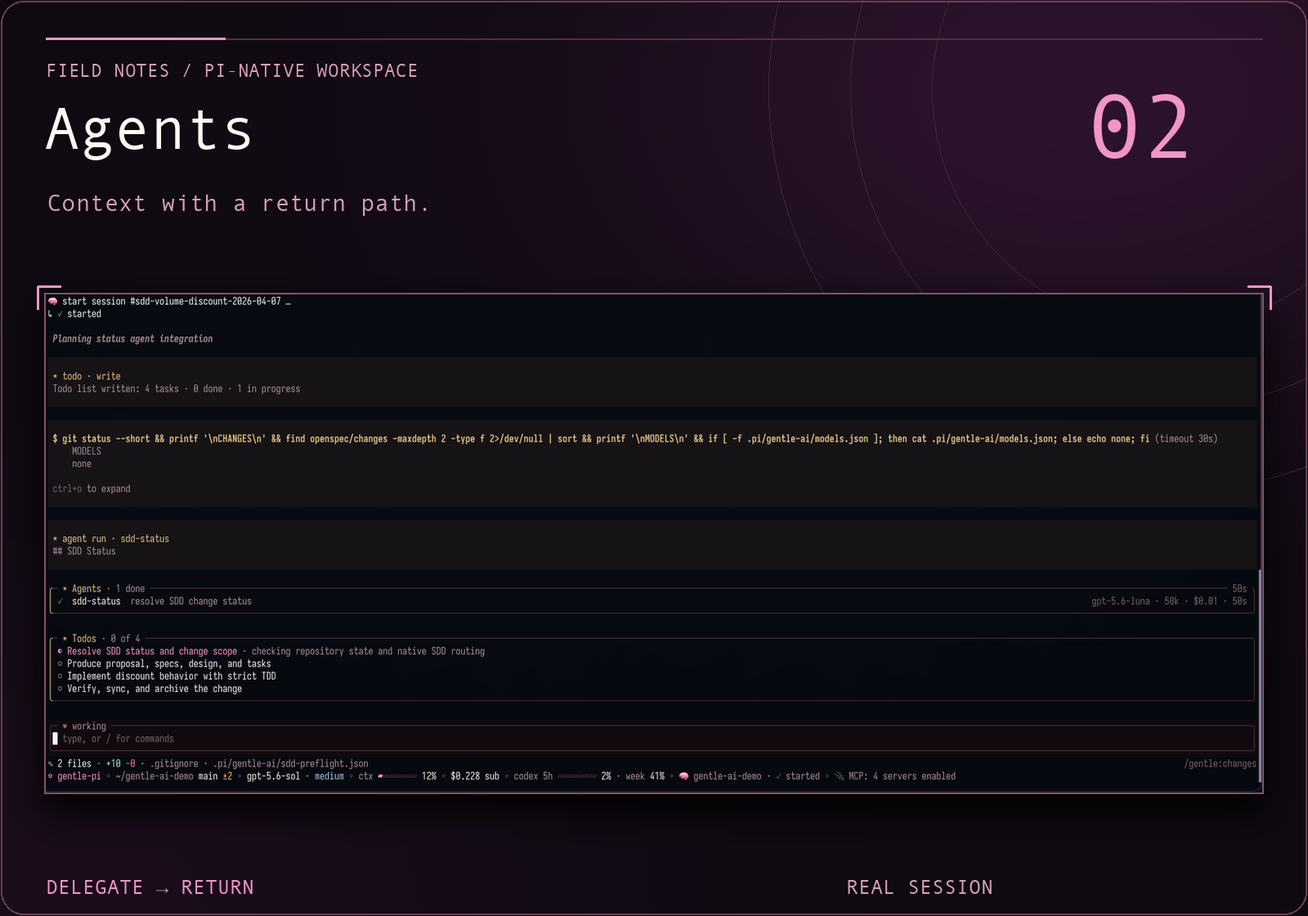
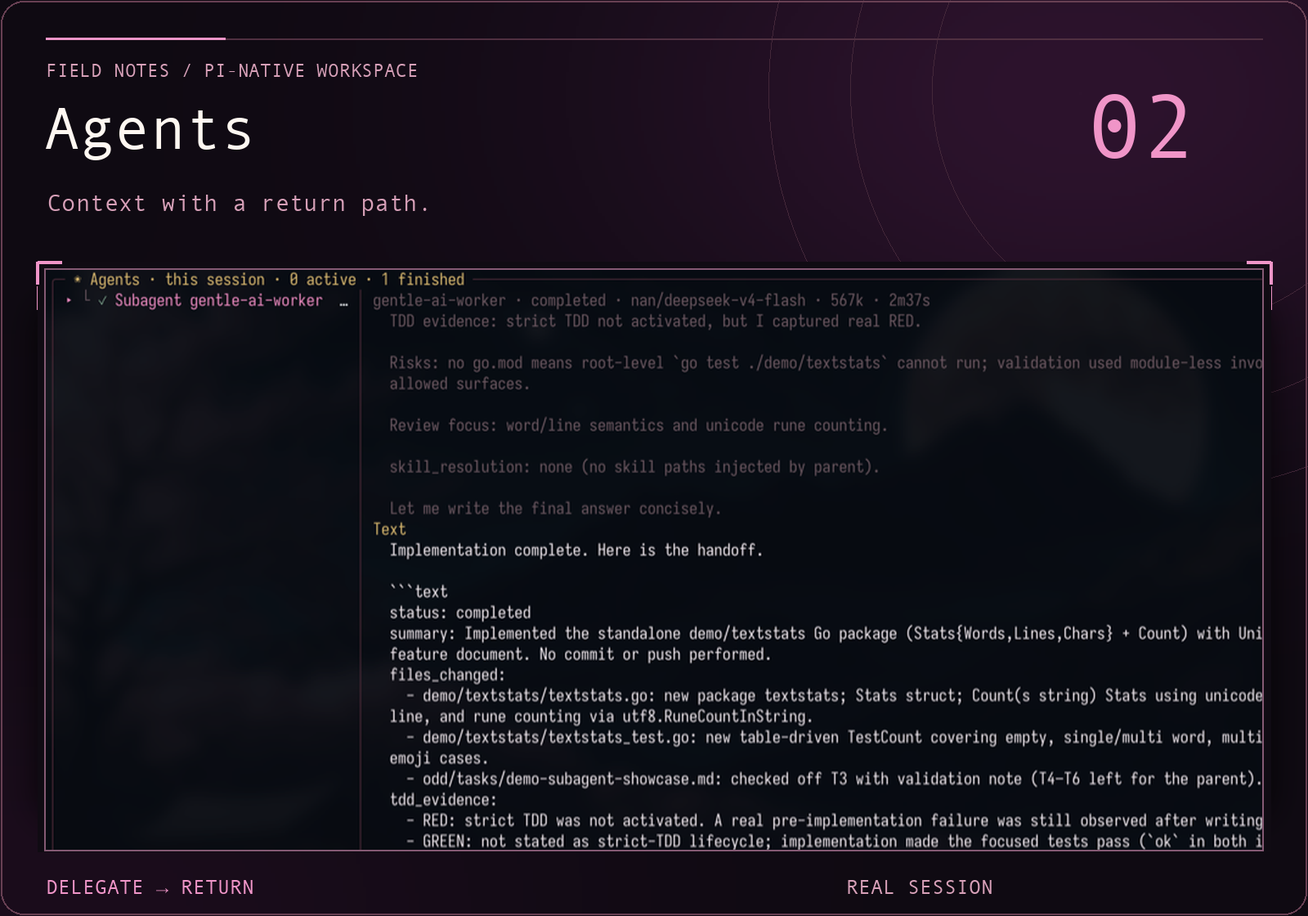
docs(readme): streamline onboarding and improve agents artwork

diff --git a/README.md b/README.md
@@ -45,12 +45,14 @@
 
 > ℹ **Naming transition:** The product and repository are `gentle-shell`; the npm package remains `gentle-pi`, and its launcher is `gentle-shell`.
 
-**Choose your setup**
+**Choose your setup** — follow one route, then [start your first session](#your-first-session).
 
-- **New to Pi?** [Download the integrated installer](#easiest-download-and-double-click-no-terminal-needed) — simplest setup, no terminal needed.
-- **Already use Pi?** [Add Gentle Shell to your existing Pi](#path-b-inside-an-existing-pi) — keep working in your agent.
-- **Prefer npm?** [Use the standalone `gentle-shell` launcher](#path-a-standalone-gentle-shell-recommended-no-pi-changes) — leave your Pi installation untouched.
-- **Working from a clone?** [Start the browser installer from a checkout](#path-c-browser-installer-from-a-checkout).
+| Your situation | Installation route |
+| :--- | :--- |
+| New to Pi | [Integrated installer — no terminal needed](#easiest-download-and-double-click-no-terminal-needed) |
+| Already use Pi | [Add the package to your existing Pi](#path-b-inside-an-existing-pi) |
+| Prefer npm and a separate environment | [Standalone `gentle-shell` launcher](#path-a-standalone-gentle-shell-recommended-no-pi-changes) |
+| Working from a clone | [Browser installer from a checkout](#path-c-browser-installer-from-a-checkout) |
 
 <a id="easiest-download-and-double-click-no-terminal-needed"></a>
 
@@ -71,148 +73,116 @@ The installer is a preview: it is tested on Linux and in CI, while clean-machine
 
 </details>
 
-- Download the installer for your computer, double-click it, and follow the steps in your browser. It installs everything Gentle Shell needs (Node.js, pnpm, Pi and Gentle Shell), or updates what you already have, and installs nothing until you confirm the plan it shows you. (To show that plan it may first download Node.js and pnpm into a temporary folder, which it removes afterwards.)
+1. **Download and extract** the installer for your computer:
 
-  - **macOS** · [gentle-shell-installer-macos.zip](https://github.com/Gentleman-Programming/gentle-shell/releases/latest/download/gentle-shell-installer-macos.zip)
-    - Open the zip, then double-click **Install Gentle Shell.command** inside the *Gentle Shell Installer* folder.
+   | System | Download | After extracting |
+   | :--- | :--- | :--- |
+   | macOS | [macOS ZIP](https://github.com/Gentleman-Programming/gentle-shell/releases/latest/download/gentle-shell-installer-macos.zip) | Open the zip, then double-click **Install Gentle Shell.command** in the *Gentle Shell Installer* folder. |
+   | Windows | [Windows ZIP](https://github.com/Gentleman-Programming/gentle-shell/releases/latest/download/gentle-shell-installer-windows.zip) | Right-click the zip → **Extract All**, open the extracted *Gentle Shell Installer* folder, then double-click **Install Gentle Shell.cmd**. It does not run inside the zip. |
+   | Linux | [Linux archive](https://github.com/Gentleman-Programming/gentle-shell/releases/latest/download/gentle-shell-installer-linux.tar.gz) | Extract it, then double-click **install-gentle-shell.sh**. If scripts do not run from your file manager, run `sh install-gentle-shell.sh` in that folder. |
 
-  - **Windows** · [gentle-shell-installer-windows.zip](https://github.com/Gentleman-Programming/gentle-shell/releases/latest/download/gentle-shell-installer-windows.zip)
-    - Right-click the zip → **Extract All**. Open the extracted folder, then the *Gentle Shell Installer* folder inside it, and double-click **Install Gentle Shell.cmd**. It does not run from inside the zip.
-
-  - **Linux** · [gentle-shell-installer-linux.tar.gz](https://github.com/Gentleman-Programming/gentle-shell/releases/latest/download/gentle-shell-installer-linux.tar.gz)
-    - Extract it, then double-click **install-gentle-shell.sh**. If your file manager does not run scripts, run `sh install-gentle-shell.sh` in that folder.
-
-
-  A small window opens, then the installer appears in your browser. Use the tab it opens, and keep the small window open until the installer says it is done.
-
-  A new installation gets Gentle Shell as one self-contained product. Its own Node.js, npm, pnpm and Pi live in `~/.gentle-shell`, and your own tools are not used or changed ([bundled installation](docs/install-wizard.md#bundled-installation)).
+2. **Review the plan in your browser and confirm.** A small window opens first; keep it open and use the browser tab it opens until installation finishes. The installer installs what is missing (Node.js, pnpm, Pi and Gentle Shell) or updates what you have. Nothing is installed until you confirm; preparing the plan may download Node.js and pnpm into a temporary folder that is removed afterwards.
+3. **Continue to [Your first session](#your-first-session).** A new installation keeps its own Node.js, npm, pnpm and Pi in `~/.gentle-shell`; your own tools are not used or changed. See [bundled installation](docs/install-wizard.md#bundled-installation) for details.
 
 <a id="path-b-inside-an-existing-pi"></a>
 
 ### Already use Pi: add the package
 
-- Install the stable release into an existing pi agent, restart Pi, then synchronize the installed assets.
+1. **Install the stable release** into your existing Pi:
 
-  ```bash
-  # Published stable release: v4.1.0
-  pi install npm:gentle-pi@4.1.0
+   ```bash
+   pi install npm:gentle-pi@4.1.0
+   ```
 
-  # Restart Pi, then run:
-  gentle-ai sync
+2. **Exit and restart Pi.** Then, in a terminal, synchronize the installed assets:
 
-  # Start Pi in your project
-  pi
-  ```
+   ```bash
+   gentle-ai sync
+   ```
 
-  See the [v4.1.0 release notes](https://github.com/Gentleman-Programming/gentle-shell/releases/tag/v4.1.0) for version-specific changes.
+3. **Continue to [Your first session](#your-first-session)** using `pi` to open your project.
 
-  <details>
-  <summary>Builtin codemode warning</summary>
-
-  gentle-pi replaces Pi's builtin `codemode` with its compact renderer, so Pi warns at startup that the builtin was not loaded. In your own Pi home (`pi` with this package, or `gentle-shell --link`), gentle-pi asks once in the interactive TUI whether to add `"-builtin:codemode"` to `extensions` in the agent `settings.json` (usually `~/.pi/agent/settings.json`); it writes only if you accept, and the warning disappears from the next launch. A declined prompt is not repeated. To silence it by hand, add the entry yourself, for example `"extensions": ["-builtin:codemode"]`. Isolated `gentle-shell` homes already carry it.
-
-  </details>
+See the [v4.1.0 release notes](https://github.com/Gentleman-Programming/gentle-shell/releases/tag/v4.1.0). If Pi reports that builtin codemode was not loaded, see [why this warning appears and how to silence it](docs/readme-reference.md#builtin-codemode-warning).
 
 <a id="path-a-standalone-gentle-shell-recommended-no-pi-changes"></a>
 
 ### Prefer npm: standalone `gentle-shell`
 
-- `gentle-shell` opens Pi with the Gentle Shell package loaded, without installing it into your pi agent or editing its `settings.json`. It requires Pi 1.2.0 or newer.
+`gentle-shell` opens Pi with this package loaded without installing it into your existing Pi agent or editing its `settings.json`. It requires Pi 1.2.0 or newer.
 
-  ```bash
-  npm i -g gentle-pi
+1. **Install the launcher** in your terminal:
 
-  # Own home, never touches your pi install
-  gentle-shell
+   ```bash
+   npm i -g gentle-pi
+   ```
 
-  # Reuse your pi sign-ins, models and chats instead
-  gentle-shell --link
-  ```
+2. **Choose your home** when starting your [first session](#your-first-session):
+   - `gentle-shell` — a separate home, automatically set up on first run; leaves your Pi installation untouched.
+   - `gentle-shell --link` — reuse your Pi sign-ins, models and chats instead.
 
-  <details>
-  <summary>Standalone homes and sign-in</summary>
-
-  `gentle-shell` alone starts in its own home, `~/.gentle-shell/agent`, keeps its settings in `~/.gentle-shell/gentle-ai` (copied once from `~/.pi/gentle-ai` on the first launch that needs it), and sets that home up on first run — no separate step. Gentle Shell keeps its own home with the Gentle AI companion packages and no conflicting plugins; gentle-pi itself always stays this launcher's own copy, never one installed into the home; your pi install is untouched. That home also defaults to the Gentleman-Cute theme unless you set your own. `gentle-shell --link` reuses `~/.pi/agent` as-is, is never auto-provisioned, and never has its theme touched.
-
-  ```bash
-  # Re-run provisioning by hand, e.g. to see the full install output
-  gentle-shell setup
-  ```
-
-  `gentle-shell setup` installs the same companion packages gentle-ai provisions into a regular Pi, into this home only, then removes the one package that conflicts with gentle-pi's own `ask_user_question` tool (gentle-ai #4820). The first `gentle-shell` launch in a home already runs this automatically; `setup` is for re-running it by hand. See **[First run](docs/readme-reference.md#first-run-in-an-isolated-or-custom-home)** for the opt-out (`GENTLE_SHELL_NO_AUTO_SETUP=1`) and failure behavior.
-
-  ```bash
-  # Make --link the default
-  gentle-shell home link
-
-  # Or keep the separate home and copy your pi sign-ins into it
-  gentle-shell home import-pi --dry-run
-  gentle-shell home import-pi
-  ```
-
-  `gentle-shell home import-pi` copies `auth.json` (kept private, `0600`) and `mcp.json` from your pi home into the separate home, plus your default provider, model and thinking level when that home has none. It never overwrites a file or setting, never copies packages, extensions, caches or chats, and never changes your pi home. The tradeoff: `--link` shares one credential store with pi, while `import-pi` makes a second copy, so a provider that rotates refresh tokens may sign one of the two out; run `/login` again there.
-
-  Every other argument is forwarded to pi unchanged, for example `gentle-shell --mode rpc` or `gentle-shell -p "..."`. Full flags, env vars, and modes: **[launcher reference](docs/readme-reference.md#gentle-shell-launcher)**.
-
-  </details>
+For home locations, companion packages, theme defaults, manual setup, credential import and its refresh-token tradeoff, see [Standalone homes and sign-in](docs/readme-reference.md#standalone-homes-and-sign-in). Full flags, environment variables and forwarded arguments: [launcher reference](docs/readme-reference.md#gentle-shell-launcher).
 
 <a id="path-c-browser-installer-from-a-checkout"></a>
 
 ### Working from a clone: browser installer
 
-<details>
-<summary>Browser installer from a clone</summary>
+Start the same browser installer from a checkout:
 
-- The same installer as the [download above](#easiest-download-and-double-click-no-terminal-needed), started from a clone instead of a download:
+```bash
+git clone https://github.com/Gentleman-Programming/gentle-shell.git
+cd gentle-shell
+```
 
-  ```bash
-  git clone https://github.com/Gentleman-Programming/gentle-shell.git
-  cd gentle-shell
+Then run **one** command for your system:
 
-  # macOS and Linux
-  sh scripts/bootstrap.sh
+| macOS / Linux | Windows (cmd) |
+| :--- | :--- |
+| `sh scripts/bootstrap.sh` | `scripts\bootstrap.cmd` |
 
-  # Windows (cmd)
-  scripts\bootstrap.cmd
-  ```
+Use the browser tab it opens: its private `127.0.0.1` link works once and expires after 2 minutes. Review the plan, choose **Latest release** (recommended) or **Latest main** (development builds), and confirm before installation changes anything. Missing Node.js and pnpm may be downloaded temporarily to open the wizard; checkout dependencies are not needed (`pnpm install` is not required).
 
-  It installs what is missing (Node.js, pnpm, Pi, Gentle Shell) and updates an existing Gentle Shell or an older Pi; nothing changes until you confirm. The bootstrap gets Node.js and pnpm into a temporary folder if they are missing, then opens the wizard in your browser at a private `127.0.0.1` address. Use the tab it opens: the link works once and expires after 2 minutes. On the review screen, choose what to install:
+Existing tools may be reused or updated; the plan explains the changes. For channel differences, build-time Go downloads, version-manager handling, Windows checks and exact update rules, see [Browser installer from a clone](docs/readme-reference.md#browser-installer-from-a-clone). Then continue below.
 
-  - **Latest release** (recommended): the published Gentle Shell with its pinned Gentle AI binary.
-  - **Latest main**: development builds of Gentle Shell and Gentle AI from the latest commit of `main`, built on your computer with Go. If your Go is missing, older or its version cannot be checked, the installer downloads its own pinned, verified Go only for that build.
+<a id="your-first-session"></a>
 
-  <details>
-  <summary>Existing tool handling</summary>
+### Your first session
 
-  - **Node.js and pnpm:** An older Node.js or an incompatible pnpm (from mise, nvm, nvm-windows, fnm, Volta or Homebrew, for example) is left untouched: the installer uses its own pinned, verified copy and installs it under `$PNPM_HOME`, and the plan says so before you confirm; a version manager may still put your own version first in new terminals. This applies only to a new installation: with Gentle Shell already installed, an older Node.js or incompatible pnpm still blocks. On Windows, `bootstrap.cmd` also uses its own Node.js when it cannot verify where yours lives (an nvm-windows symlink or an fnm junction, for example), without running yours.
-  - **Your pnpm:** A pnpm in the pnpm global bin directory (`$PNPM_HOME/bin`) is never replaced or downgraded: pnpm 11.1.1 or newer, pnpm 12 included, is used as it is, an older one blocks with the `pnpm self-update` command that updates it, and one whose version could not be checked is left as it is while the installer uses its own verified pnpm, which the plan says before you confirm.
-  - **npm:** A working `npm` on your PATH (from Node.js, Homebrew, nvm, nvm-windows, fnm, mise, asdf or Volta, for example) is used as it is; the installer adds its own npm only when none works.
-  - **Windows:** On Windows it never runs `npm.cmd` or `pnpm.cmd` through a shell: it runs what a recognized shim runs, or the `.exe` itself, and treats any other shim as not usable. It also checks that no other account can change the pnpm home folder (`PNPM_HOME`), and never runs a pnpm from a folder another account can change (or one it cannot prove is pnpm, such as Corepack's `pnpm.cmd`): it uses its own verified pnpm instead and leaves yours as it is. When pnpm's default `%LOCALAPPDATA%\pnpm` fails that check and holds nothing yet, it uses `%USERPROFILE%\.pnpm` instead and `pnpm setup` saves it for new terminals; pnpm commands you run later still keep pnpm's configuration, cache and state under `%LOCALAPPDATA%`, an accepted risk the plan states. When that folder already holds files, or your own `PNPM_HOME` fails the check, it stops and names the folder, the account and its rights. The plan says so before you confirm.
-  - **Your existing tools:** Your Node.js, npm, Go, Pi or npm-installed Gentle Shell are used as you already use them; when one lives in a folder another account can change, the plan names that folder, the account and its rights as a notice, without blocking.
-  - **Go:** When a build needs Go (the main channel, or Windows) and yours is missing, older or its version cannot be checked, the installer downloads a pinned Go from go.dev, verifies its checksum and uses it only to build, from its own folder; your Go and PATH are left untouched, and the plan says so before you confirm. A release install on macOS or Linux never downloads Go.
-  - **Git:** Git is not needed to install; when it is missing the plan says so before you confirm, with the command to install it, because code review, worktrees and repository features need it.
-  - **Pi:** An existing Pi that meets the minimum is reused as it is. With pnpm 11, Gentle Shell may run a newer Pi than the installer's that pnpm puts next to it (always at least the minimum); the installer says which one when it finishes. An older Pi is updated to the version the installer installs, with the package manager that installed it (pnpm or npm); the plan shows the found and target versions before you confirm. An older Pi that neither manages (mise, Homebrew or a standalone binary, for example) is left untouched, and the installer adds its own Pi with pnpm, as when Pi is missing; Gentle Shell uses that one. Pi is never downgraded.
-  - **Gentle Shell:** An existing Gentle Shell is updated with the package manager that installed it (pnpm or npm); one it cannot attribute, such as an `npm link` of a source checkout, is left untouched and explained. No checkout dependencies are needed (`pnpm install` is not required).
+1. **Open your project in a terminal**, then start the launcher for the route you installed:
 
-  </details>
+   ```bash
+   cd /path/to/your/project
+   ```
 
-  Details: [installation wizard](docs/install-wizard.md).
+   | Installation | Run in that terminal |
+   | :--- | :--- |
+   | Integrated installer or standalone npm | `gentle-shell` |
+   | Package added to an existing Pi | `pi` |
+   | Standalone npm, reusing your Pi home | `gentle-shell --link` |
+   | Browser installer from a clone | `gentle-shell` (open your project, not necessarily the installer checkout) |
 
+   **Expected:** an interactive workspace with a prompt editor and a footer showing your current folder and model.
 
-</details>
+2. **Connect a provider inside that workspace:** enter `/login`, choose a provider, and follow its subscription or API-key prompts. Skip this if your selected home already has working credentials. Then enter `/model` and choose a model available to that provider. Provider access may require a paid subscription or usage credits; see [Pi's provider setup](https://github.com/earendil-works/pi/blob/main/docs/models.md) for environment-variable authentication, local models and other options.
+3. **Send a read-only first prompt:**
+
+   ```text
+   Explain how this repository is organized and how to run its checks. Do not modify any files.
+   ```
+
+   **Expected:** the agent inspects the project and replies with its structure and check commands, or explains what it could not determine. It should not modify files. A provider authentication or model-access error means this step has not succeeded yet; check `/login` and `/model` before proceeding.
 
 ### Check your setup
 
-```text
-/gentle:status
-/gentle:doctor
-```
+Run these **inside the Pi workspace**, not in your terminal shell:
 
-- ℹ **Good to know**
+| Command | What to look for |
+| :--- | :--- |
+| `/gentle:status` | `el Gentleman package is active.` followed by package-assets and global model-configuration details. If assets are missing or stale, follow the repair guidance it prints. |
+| `/gentle:doctor` | Diagnostic lines marked `pass:`, `warn:` or `fail:`. Resolve `fail:` entries using their `remedy:` guidance. Missing optional memory tools or a skill registry can produce warnings without preventing your first conversation. |
 
-  - **STATUS diagnostics are opt-in:** `/gentle:status-timing enable` arms timing for the next separately authorized STATUS-bearing tool call; `show` consults the memory-only summary and `disable` clears it. It never invokes or retries STATUS. See the [diagnostic boundaries](docs/readme-reference.md#diagnose-status-timing-without-retrying-it).
-  - **Fullscreen installation note:** a recognized global installation persists Pi’s `"tuiMode": "fullscreen"` setting. Project-local and other install paths do not receive that change.
-  - **Interactive RPC hosts:** the desktop app sets `GENTLE_SHELL_INTERACTIVE_HOST=1` automatically, without touching your Pi config — see the [installation reference](docs/readme-reference.md#interactive-rpc-hosts).
+A successful first reply confirms provider/model access; the diagnostics check the package setup. Neither alone proves the other.
+
+**Setup details:** [codemode warning](docs/readme-reference.md#builtin-codemode-warning) · [STATUS timing diagnostics](docs/readme-reference.md#diagnose-status-timing-without-retrying-it) · [install-time fullscreen](docs/readme-reference.md#install-time-fullscreen) · [interactive RPC hosts](docs/readme-reference.md#interactive-rpc-hosts).
 
 For updates and removal, see [Operations](#operations). For the product tour, continue below.
 
@@ -306,14 +276,14 @@ You should not have to run `git status` in every worktree to find out what your 
 
 Parallel work with a live view.
 
-<img width="100%" src="docs/assets/readme-studio/agents.png" alt="Real session overview: a completed agent card with model, tokens, cost and elapsed time above the four-item task plan and working prompt">
+<img width="100%" src="docs/assets/readme-studio/agents.png" alt="Detail from the real Agents overlay: a finished subagent in the session list, completed status, model and the beginning of its handoff">
 
-<p><sub>Real completed-agent overview and task plan, not a new quickstart run. The original Agents overlay and this session source are expandable below.</sub></p>
+<p><sub>Detail from the real Agents overlay: one completed worker and its handoff, not a demonstration of concurrent active jobs or output from the first-session prompt. Full overlay and a separate session example are expandable below.</sub></p>
 
 Delegating work should not mean losing it. Every subagent runs as its own process with a live card above the editor — model, tokens, cost, elapsed — and `alt+a` opens the full view with retained threads, stop controls, and history restored on resume. A child can ask you a question as an ordinary dialog, and background results come back as cards that start a new turn — nothing polls.
 
 <details>
-<summary>Agent/task session screenshot (full source)</summary>
+<summary>Secondary example: full agent/task session (historical workflow)</summary>
 
 <img width="100%" src="docs/assets/features/gentle-shell.png" alt="Full real session showing tool activity, a completed agent card, Todos, prompt and bottom status bar">
 

diff --git a/docs/readme-reference.md b/docs/readme-reference.md
@@ -646,6 +646,75 @@ Only durations, effective adapter timeouts, and allowlisted typed outcomes are r
 
 Synthetic tests prove the observer's behavior, not the cause of issue #213. A new authorized observation can localize a delay; it does not repair an incomplete authority inventory or justify retrying a non-retryable STATUS.
 
+## Setup details
+
+The [README quickstart](../README.md#get-started) keeps installation and first use together. These explanations preserve the advanced setup details for each route.
+
+### Builtin codemode warning
+
+gentle-pi replaces Pi's builtin `codemode` with its compact renderer, so Pi warns at startup that the builtin was not loaded. In your own Pi home (`pi` with this package, or `gentle-shell --link`), gentle-pi asks once in the interactive TUI whether to add `"-builtin:codemode"` to `extensions` in the agent `settings.json` (usually `~/.pi/agent/settings.json`); it writes only if you accept, and the warning disappears from the next launch. A declined prompt is not repeated. To silence it by hand, add the entry yourself, for example `"extensions": ["-builtin:codemode"]`. Isolated `gentle-shell` homes already carry it.
+
+### Standalone homes and sign-in
+
+`gentle-shell` alone starts in its own home, `~/.gentle-shell/agent`, keeps its settings in `~/.gentle-shell/gentle-ai` (copied once from `~/.pi/gentle-ai` on the first launch that needs it), and sets that home up on first run — no separate step. Gentle Shell keeps its own home with the Gentle AI companion packages and no conflicting plugins; gentle-pi itself always stays this launcher's own copy, never one installed into the home; your pi install is untouched. That home also defaults to the Gentleman-Cute theme unless you set your own. `gentle-shell --link` reuses `~/.pi/agent` as-is, is never auto-provisioned, and never has its theme touched.
+
+```bash
+# Re-run provisioning by hand, e.g. to see the full install output
+gentle-shell setup
+```
+
+`gentle-shell setup` installs the same companion packages gentle-ai provisions into a regular Pi, into this home only, then removes the one package that conflicts with gentle-pi's own `ask_user_question` tool (gentle-ai #4820). The first `gentle-shell` launch in a home already runs this automatically; `setup` is for re-running it by hand. See **[First run](readme-reference.md#first-run-in-an-isolated-or-custom-home)** for the opt-out (`GENTLE_SHELL_NO_AUTO_SETUP=1`) and failure behavior.
+
+```bash
+# Make --link the default
+gentle-shell home link
+
+# Or keep the separate home and copy your pi sign-ins into it
+gentle-shell home import-pi --dry-run
+gentle-shell home import-pi
+```
+
+`gentle-shell home import-pi` copies `auth.json` (kept private, `0600`) and `mcp.json` from your pi home into the separate home, plus your default provider, model and thinking level when that home has none. It never overwrites a file or setting, never copies packages, extensions, caches or chats, and never changes your pi home. The tradeoff: `--link` shares one credential store with pi, while `import-pi` makes a second copy, so a provider that rotates refresh tokens may sign one of the two out; run `/login` again there.
+
+Every other argument is forwarded to pi unchanged, for example `gentle-shell --mode rpc` or `gentle-shell -p "..."`. Full flags, env vars, and modes: **[launcher reference](readme-reference.md#gentle-shell-launcher)**.
+
+### Browser installer from a clone
+
+- The same installer as the [download above](../README.md#easiest-download-and-double-click-no-terminal-needed), started from a clone instead of a download:
+
+  ```bash
+  git clone https://github.com/Gentleman-Programming/gentle-shell.git
+  cd gentle-shell
+
+  # macOS and Linux
+  sh scripts/bootstrap.sh
+
+  # Windows (cmd)
+  scripts\bootstrap.cmd
+  ```
+
+  It installs what is missing (Node.js, pnpm, Pi, Gentle Shell) and updates an existing Gentle Shell or an older Pi; nothing changes until you confirm. The bootstrap gets Node.js and pnpm into a temporary folder if they are missing, then opens the wizard in your browser at a private `127.0.0.1` address. Use the tab it opens: the link works once and expires after 2 minutes. On the review screen, choose what to install:
+
+  - **Latest release** (recommended): the published Gentle Shell with its pinned Gentle AI binary.
+  - **Latest main**: development builds of Gentle Shell and Gentle AI from the latest commit of `main`, built on your computer with Go. If your Go is missing, older or its version cannot be checked, the installer downloads its own pinned, verified Go only for that build.
+
+  <details>
+  <summary>Existing tool handling</summary>
+
+  - **Node.js and pnpm:** An older Node.js or an incompatible pnpm (from mise, nvm, nvm-windows, fnm, Volta or Homebrew, for example) is left untouched: the installer uses its own pinned, verified copy and installs it under `$PNPM_HOME`, and the plan says so before you confirm; a version manager may still put your own version first in new terminals. This applies only to a new installation: with Gentle Shell already installed, an older Node.js or incompatible pnpm still blocks. On Windows, `bootstrap.cmd` also uses its own Node.js when it cannot verify where yours lives (an nvm-windows symlink or an fnm junction, for example), without running yours.
+  - **Your pnpm:** A pnpm in the pnpm global bin directory (`$PNPM_HOME/bin`) is never replaced or downgraded: pnpm 11.1.1 or newer, pnpm 12 included, is used as it is, an older one blocks with the `pnpm self-update` command that updates it, and one whose version could not be checked is left as it is while the installer uses its own verified pnpm, which the plan says before you confirm.
+  - **npm:** A working `npm` on your PATH (from Node.js, Homebrew, nvm, nvm-windows, fnm, mise, asdf or Volta, for example) is used as it is; the installer adds its own npm only when none works.
+  - **Windows:** On Windows it never runs `npm.cmd` or `pnpm.cmd` through a shell: it runs what a recognized shim runs, or the `.exe` itself, and treats any other shim as not usable. It also checks that no other account can change the pnpm home folder (`PNPM_HOME`), and never runs a pnpm from a folder another account can change (or one it cannot prove is pnpm, such as Corepack's `pnpm.cmd`): it uses its own verified pnpm instead and leaves yours as it is. When pnpm's default `%LOCALAPPDATA%\pnpm` fails that check and holds nothing yet, it uses `%USERPROFILE%\.pnpm` instead and `pnpm setup` saves it for new terminals; pnpm commands you run later still keep pnpm's configuration, cache and state under `%LOCALAPPDATA%`, an accepted risk the plan states. When that folder already holds files, or your own `PNPM_HOME` fails the check, it stops and names the folder, the account and its rights. The plan says so before you confirm.
+  - **Your existing tools:** Your Node.js, npm, Go, Pi or npm-installed Gentle Shell are used as you already use them; when one lives in a folder another account can change, the plan names that folder, the account and its rights as a notice, without blocking.
+  - **Go:** When a build needs Go (the main channel, or Windows) and yours is missing, older or its version cannot be checked, the installer downloads a pinned Go from go.dev, verifies its checksum and uses it only to build, from its own folder; your Go and PATH are left untouched, and the plan says so before you confirm. A release install on macOS or Linux never downloads Go.
+  - **Git:** Git is not needed to install; when it is missing the plan says so before you confirm, with the command to install it, because code review, worktrees and repository features need it.
+  - **Pi:** An existing Pi that meets the minimum is reused as it is. With pnpm 11, Gentle Shell may run a newer Pi than the installer's that pnpm puts next to it (always at least the minimum); the installer says which one when it finishes. An older Pi is updated to the version the installer installs, with the package manager that installed it (pnpm or npm); the plan shows the found and target versions before you confirm. An older Pi that neither manages (mise, Homebrew or a standalone binary, for example) is left untouched, and the installer adds its own Pi with pnpm, as when Pi is missing; Gentle Shell uses that one. Pi is never downgraded.
+  - **Gentle Shell:** An existing Gentle Shell is updated with the package manager that installed it (pnpm or npm); one it cannot attribute, such as an `npm link` of a source checkout, is left untouched and explained. No checkout dependencies are needed (`pnpm install` is not required).
+
+  </details>
+
+  Details: [installation wizard](install-wizard.md).
+
 ## Quick start
 
 ```text

diff --git a/docs/assets/readme-studio/README.md b/docs/assets/readme-studio/README.md
@@ -5,7 +5,7 @@ Three lossless PNG compositions used by the README. Styling is baked into the im
 | Asset | Size | Source and composition |
 | --- | --- | --- |
 | `changes.png` | 1600 × 1120 | Continuous crop `(10, 0, 1260, 595)` of `../features/changes-view.png`: worktree list beside the real diff. |
-| `agents.png` | 1600 × 1120 | Continuous crop `(0, 230, 1599, 884)` of `../features/gentle-shell.png`: tool activity, completed-agent metadata, task plan and working prompt. |
+| `agents.png` | 1600 × 1120 | Continuous crop `(0, 0, 1000, 477)` of `../features/agents-view.png`: session list, completed-worker status, model and handoff. Enlarged to a comparable text scale to Changes; long handoff lines are clipped, with the full source linked in the README. |
 | `control.png` | 1600 × 1120 | An explanatory diagram, not product UI, adapted from `../diagrams/permission-modes.svg`. |
 
 Crop rectangles use Pillow's left/top/right/bottom coordinates. The Changes and Agents panels contain no fabricated output, recoloring, overlays on evidence, rearranged terminal fragments or recreated UI. Crops may clip long lines; the full source screenshots remain available in README disclosures. These illustrative sessions are not claimed output of a new installation walkthrough.
@@ -14,11 +14,11 @@ Crop rectangles use Pillow's left/top/right/bottom coordinates. The Changes and 
 
 The palette and geometric terminal motif come from `../brand/gentle-pi-banner.svg`: dark plum, luminous `#f095c8`, muted `#d7a0b8` and warm white. Andale Mono typography was rasterized during production. Numbers, rules, contours, corner brackets, shadows and gradients sit outside screenshot evidence pixels.
 
-The three files total 736,675 bytes. They were composed with Python Pillow during local design iteration; the preview and production scripts are not shipped in this directory. Viewing the finished PNGs needs neither Pillow nor the original font.
+The three files total 1,088,163 bytes. They were composed with Python Pillow during local design iteration; the preview and production scripts are not shipped in this directory. Viewing the finished PNGs needs neither Pillow nor the original font.
 
 ## Evidence and boundaries
 
-- The Agents panel shows a **completed** worker and task plan, not an active Agents overlay. Both its full session source and the original `../features/agents-view.png` remain accessible in the README.
+- The Agents panel shows the real overlay with **one completed** worker and the start of its handoff, not several active parallel jobs. Its full `../features/agents-view.png` source remains accessible in the README. The separate `../features/gentle-shell.png` session is retained as a secondary SDD/OpenSpec example, not presented as the ODD first-session walkthrough.
 - The Control panel covers Normal, Auto and YOLO only. It is an explanation of their documented boundaries, not a screenshot or a sandbox claim. [Super Yolo](../../yolo-mode.md#super-yolo) is a separate higher-risk mode outside this diagram's scope.
 - Existing GIFs, videos, diagrams, screenshots and credits are preserved. The full workspace screenshot is visible without a toggle.
 
